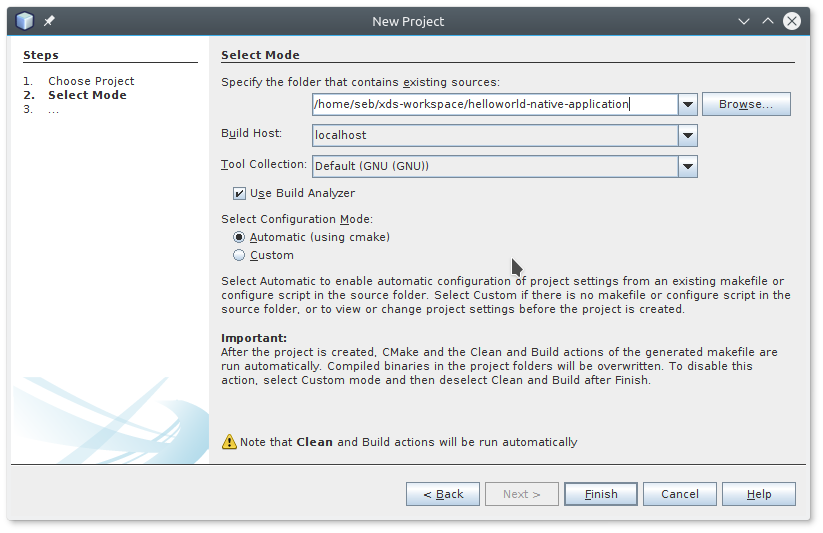
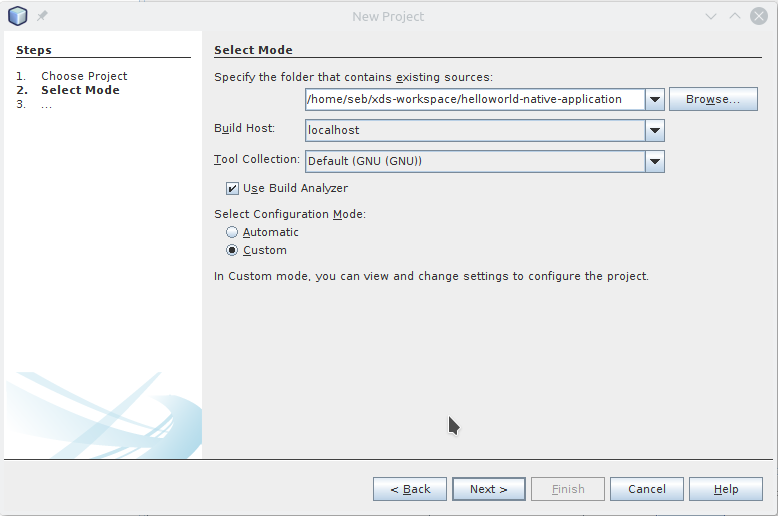
Update Netbeans project creation steps and screenshots

Changed region(s): [[0.0, 0.0, 1.0, 0.5891], [0.0, 0.6822, 1.0, 1.0], [0.2468, 0.6202, 0.9563, 0.7442]]

diff --git a/docs/part-1/4_build-first-app.md b/docs/part-1/4_build-first-app.md
@@ -185,21 +185,27 @@ __Netbeans 8.x :__
 - Select **C/C++ Project with Existing Sources** ;
   Click on **Next** button
 
-- Specify the directory where you cloned your project and click on **Finish** button to keep all default settings in order to create a *native configuration*.
+- Specify your project directory and set **Select Configuration Mode** to
+  **Custom**. Keep **Tool Collection** to **Default GNU** in order to create a
+  *native configuration* based on native GNU GCC. Finally click on **Next** button.
 
     ![Select Model panel](./pictures/nb_new-project-1.png)
 
-<!-- warning -->
-> **Warning:** Take care to set **Tool Collection** to **Default GNU** in order
-> to create a native configuration based on native GNU GCC.
-<!-- endwarning -->
+- Just update **Run in Folder** field and add `build_native` suffix so that
+  resulting build files will be located into `build_native` sub-directory.
+  Keep all others settings to default value and  click on **Next** button.
+
+    ![Select Model panel](./pictures/nb_new-project-2.png)
+
+- Click several times on **Next button** (always keep default settings) and
+  click on **Finish** button to complete creation of native configuration.
 
 - Now we will create a **cross configuration** based on XDS tools.
   Edit project properties (using menu **File** -> **Project Properties**) to add a new configuration that will use XDS to cross-compile your application for example for a Renesas Gen3 board.
 
   - in **Build** category, click on **Manage Configurations** button and then **New** button to add a new configuration named for example "Gen3 board"
 
-    ![Select Build category](./pictures/nb_new-project-2.png)
+    ![Select Build category](./pictures/nb_new-project-3.png)
 
   - Click on **Set Active** button
 
@@ -213,13 +219,13 @@ __Netbeans 8.x :__
     - Build Command: `xds-exec -c ../xds-project.conf -- make remote-target-populate`
     - Clean Command: `xds-exec -c ../xds-project.conf -- make clean`
 
-    ![Select Make sub-category](./pictures/nb_new-project-3.png)
+    ![Select Make sub-category](./pictures/nb_new-project-4.png)
 
   - Select **Run** sub-category, and set:
     - Run Command: `target/start-on-root@renesas-gen3.sh`
     - Run Directory: `build-gen3`
 
-    ![Select Run  sub-category](./pictures/nb_new-project-4.png)
+    ![Select Run  sub-category](./pictures/nb_new-project-5.png)
 
   - Click on **OK** button to save settings
 
